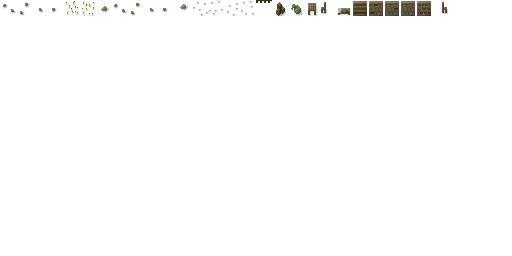
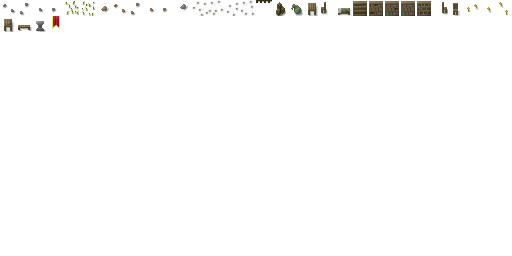
- Fixed AutoDoodads bug. - More doodads.

diff --git a/lib/AutoDoodads.cpp b/lib/AutoDoodads.cpp
@@ -65,7 +65,7 @@ namespace tpublic
 							if(possibleDoodad->m_spriteIds.size() > 0 && DoodadPlacement::Check(aTileMap, aSize, possibleDoodad, position, aOutCoverageMap))
 							{
 								assert(possibleDoodad->m_autoProbability.has_value());
-								uint32_t randomValue = (uint32_t)Hash::Splitmix_2_32(aSeed, position.GetHash32());
+								uint32_t randomValue = (uint32_t)Hash::Splitmix_2_32(aSeed + possibleDoodad->m_id, position.GetHash32());
 								uint32_t roll = (possibleDoodad->m_autoProbability->m_max * (randomValue >> 16)) / 0x10000;
 								if(roll < possibleDoodad->m_autoProbability->m_min)
 								{								
